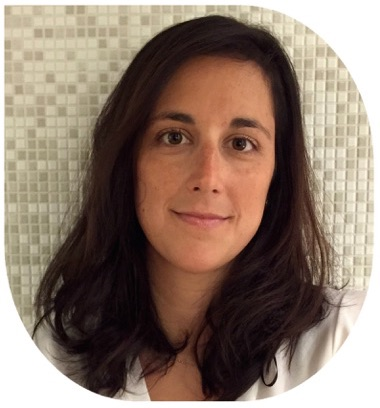
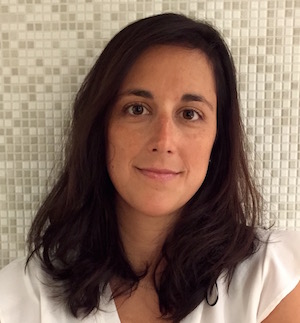
remove typos, center images and improve look with new padding adjustments

diff --git a/index.html b/index.html
@@ -12,7 +12,7 @@
 
 <!-- Navigation Bar -->
 
-    <div class="navbar navbar-inverse">
+    <div class="navbar navbar-inverse navbar-fixed-top">
       <div class="container">
         <button type="button" class="navbar-toggle" data-toggle="collapse" data-target=".navbar-collapse">
           <span class="icon-bar"></span>
@@ -59,20 +59,33 @@
         </div>
       </div>
     </div>
-    <div class="container container-custom">
-      <div class="row">
-        <div class="col-md-4">
-          <img src="img/wikipedia-facsimile.jpg" class="img-responsive" alt="wikipedia logo facsimile">
-        </div>
-        <div class="col-md-4">
-          <img src="img/zara.jpg" class="img-responsive" alt="Zara" />
-        </div>
-        <div class="col-md-4">
-          <img src="img/studio.jpg" class="img-responsive" alt="designer studio" />
-        </div>
-      </div>
 
+      <div class="row">
+        <div class="container container-custom">
+          <div class="col-md-4">
+            <img src="img/zara.jpg" class="img-responsive center-block" alt="wikipedia logo facsimile">
+          </div>
+          <div class="col-md-4">
+            <img src="img/wikipedia-facsimile.jpg" class="img-responsive center-block" alt="Zara" />
+          </div>
+          <div class="col-md-4">
+            <img src="img/studio.jpg" class="img-responsive center-block" alt="designer studio" />
+          </div>
+      </div>
+      <div class="container container-custom">
     <div class="row">
+      <div class="col-md-4">
+        <p><strong>PET WEBSITE</strong></p>
+        <p>
+          On the very first day, we created this simple HTML page for my parent's dog, Zara. We also used some in style design.
+      </p>
+        <p>
+          Now we've grown up and we only use super cool CSS stylesheets, and even Bootstrap!
+        </p>
+        <p>
+        Check this <a href="https://github.com/mrtsanchez/pet-website">pet's website</a> in Github.
+      </p>
+      </div>
       <div class="col-md-4">
         <p><strong>WIKIPEDIA CLONE</strong></p>
         <p>In this project we tried to copy the Wikipedia home page, using these technologies:
@@ -90,18 +103,11 @@
       </p>
       </div>
       <div class="col-md-4">
-        <p><strong>PET WEBSITE</strong></p>
-        <p>
-          On the very first day, we created this simple HTML page for my parent's dog, Zara. We also used some in style design. Now we've grown up and we only use super cool CSS stylesheets, and even Bootstrap!
-      <p>
-        Check this <a href="https://github.com/mrtsanchez/pet-website">pet's website</a> in Github.
-      </p>
-      </div>
-      <div class="col-md-4">
-        <p>This is a website about a designer whoe redecorated the Living Room of another designer. Meta designing.
+        <p><strong>DESIGNER WEBSITE</strong></p>
+        <p>This is a website about one of Emily Hendersen's projects. She is a designer who hosted a show called "Secrets from a Stylist" in HGTV. In one episode, she redecorated the Living Room of Joy Cho, a well known designer and blogger. We used HTML and CSS to create columns and floating to show the before, during and after of this remodelatio project. We also learned about the box model.
       </p>
       <p>
-          Check this <a href="https://github.com/mrtsanchez/designer-website">pet's website</a> in Github.
+          Check this <a href="https://github.com/mrtsanchez/designer-website">designer's website.</a> in Github.
       </p>
       </div>
     </div>
@@ -113,50 +119,48 @@
     <div class="container-fluid">
       <div class="row">
         <div class="col-md-12 text-center col-title">
+          <div class="container container-custom">
           <h3>About Me</h3>
-        </div>
-      </div>
-    </div>
-
-    <div class="container container-custom">
-      <div class="row">
-        <div class="col-md-6">
-          <div class="panel panel-default">
-            <div class="panel-body">
-              <p>
-              I'm an student at Epicodus trying to improve my coding skills. For the past few year's I've worked as a Product Manager, mostly in Software as a Service solutions.
-              </p>
-              <p>
-                In my spare time, I love to discover Portland with my family and try new food carts all around the city. My favorite carts so far are:
-                <ol>
-                  <li>Bing Mi</li>
-                  <li>E-San Thai Cuisine</li>
-                  <li>Grilled Cheese Sandwitch</li>
-                </ol>
-              </p>
-
-
-            </div>
           </div>
         </div>
-        <div class="col-md-6">
-          <img src="img/marta.jpg" class="img-responsive center-block" alt="marta" />
+      </div>
 
-        </div>
+      <div class="row">
+        <div class="container container-custom">
+          <div class="col-md-6">
+                <p>
+                I'm an student at Epicodus trying to improve my coding skills. For the past few year's I've worked as a Product Manager, mostly in Software as a Service solutions.
+                </p>
+                <p>
+                  In my spare time, I love to discover Portland with my family and try new food carts all around the city. My favorite carts so far are:
+                  <ol>
+                    <li>Bing Mi</li>
+                    <li>E-San Thai Cuisine</li>
+                    <li>Grilled Cheese Sandwitch</li>
+                  </ol>
+                </p>
+              </div>
+          <div class="col-md-6">
+            <img src="img/marta.jpg" class="img-responsive center-block img-circle" alt="marta" />
+          </div>
+      </div>
       </div>
     </div>
+  </div>
 
 <!-- end of about me container -->
 
 <!-- footer -->
     <div class="container-fluid">
       <div class="row">
-        <div class="col-md-12 col-title text-center">
-          <h4>
-            Coded at Epicodus.
-          </h4>
-          <span class="glyphicon glyphicon-star" aria-hidden="true"></span>
-
+          <div class="col-md-12 col-title text-center">
+            <div class="container container-custom">
+            <h4>
+              Coded at Epicodus.
+            </h4>
+            <br>
+            <span class="glyphicon glyphicon-star" aria-hidden="true"></span>
+            </div>
         </div>
 
       </div>

diff --git a/css/styles.css b/css/styles.css
@@ -39,7 +39,7 @@ color: white;
 }
 
 .container-custom {
-  padding: 10px;
+  padding: 20px;
   margin-top: 10px;
 }
 /* Custom Styles */
